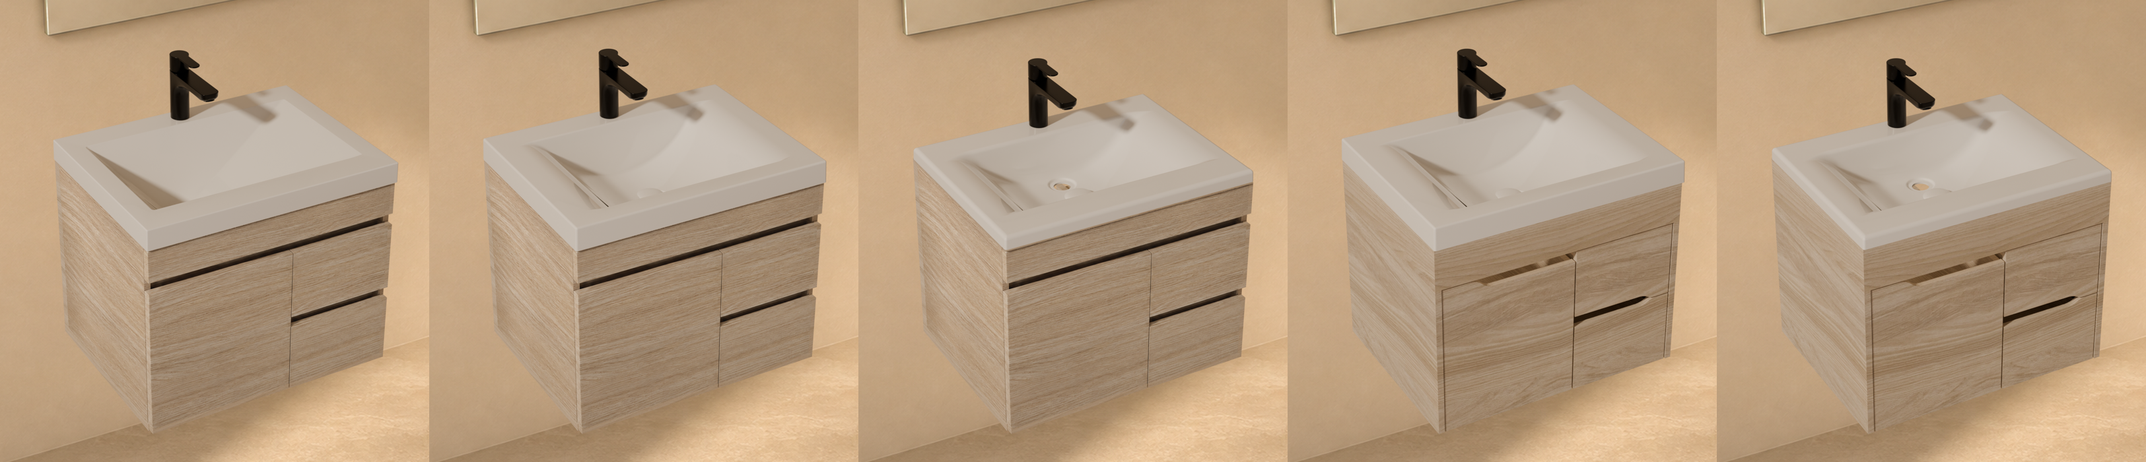
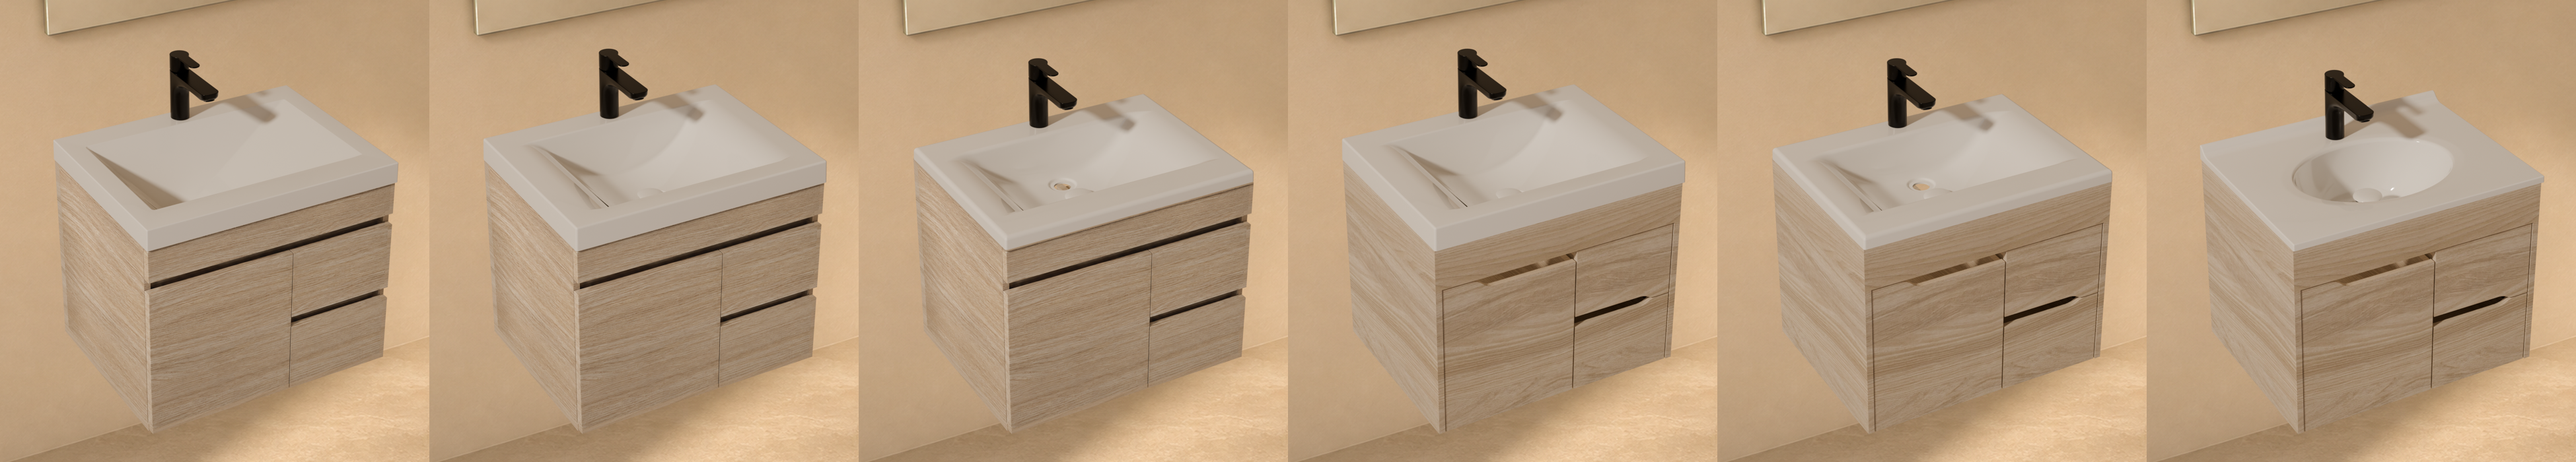
feat(banos-muebles): incorporar lavamanos Quadratto en mueble Tiziano (Opcion D)

diff --git a/pruebas-unitarias/opcionD.test.ts b/pruebas-unitarias/opcionD.test.ts
@@ -8,13 +8,13 @@ import { leerSeleccionD, escribirSeleccionD, normalizarD, nombresD, sorprenderD,
 const publico = (url: string) => path.join(process.cwd(), 'public', url);
 
 describe('Alejandro · ambiente persistente y productos intercambiables', () => {
-  it('limita el piloto a las nueve parejas verificadas de 63 × 48', () => {
+  it('limita el piloto a las diez parejas verificadas de 63 × 48', () => {
     expect(MUEBLES_D.map(m => m.id)).toEqual(['vitelli', 'tiziano']);
-    expect(LAVAMANOS_D.map(l => l.id)).toEqual(['oslo', 'genova', 'bari', 'siena', 'trentino']);
-    expect(TOTAL_COMBINACIONES_D).toBe(9);
-    expect(CAPAS_PILOTO_D.verified_combinations).toHaveLength(9);
+    expect(LAVAMANOS_D.map(l => l.id)).toEqual(['oslo', 'genova', 'bari', 'siena', 'trentino', 'quadratto']);
+    expect(TOTAL_COMBINACIONES_D).toBe(10);
+    expect(CAPAS_PILOTO_D.verified_combinations).toHaveLength(10);
     expect(lavamanosDe('vitelli').map(l => l.id)).toEqual(['oslo', 'genova', 'bari', 'siena', 'trentino']);
-    expect(lavamanosDe('tiziano').map(l => l.id)).toEqual(['oslo', 'genova', 'siena', 'trentino']);
+    expect(lavamanosDe('tiziano').map(l => l.id)).toEqual(['oslo', 'genova', 'siena', 'trentino', 'quadratto']);
     for (const m of MUEBLES_D) {
       expect(acabadosDe(m.id).map(a => a.id)).toEqual(['soder']);
       expect(capaMuebleD(m.id, 'soder', 'abierto')).toBeNull();
@@ -23,11 +23,14 @@ describe('Alejandro · ambiente persistente y productos intercambiables', () => 
   });
 
   it('no interpreta la igualdad de medida como compatibilidad física', () => {
-    expect(combinacionVerificadaD('tiziano', 'quadratto', 'soder')).toBe(false);
+    // Tiziano + Quadratto lo aprobó el usuario; Vitelli + Quadratto y Tiziano + Bari no se ofrecen.
+    expect(combinacionVerificadaD('tiziano', 'quadratto', 'soder')).toBe(true);
+    expect(capasSeleccionD({ mueble: 'tiziano', lavamanos: 'quadratto', acabado: 'soder' })).not.toBeNull();
+    expect(combinacionVerificadaD('vitelli', 'quadratto', 'soder')).toBe(false);
     expect(combinacionVerificadaD('tiziano', 'bari', 'soder')).toBe(false);
-    expect(capasSeleccionD({ mueble: 'tiziano', lavamanos: 'quadratto', acabado: 'soder' })).toBeNull();
+    expect(capasSeleccionD({ mueble: 'vitelli', lavamanos: 'quadratto', acabado: 'soder' })).toBeNull();
     expect(capasSeleccionD({ mueble: 'tiziano', lavamanos: 'bari', acabado: 'soder' })).toBeNull();
-    for (const lavamanos of ['parma', 'quadratto', 'quadratto-marfil', 'oasis', 'doha'])
+    for (const lavamanos of ['parma', 'quadratto-marfil', 'oasis', 'doha'])
       for (const mueble of ['vitelli', 'tiziano']) expect(combinacionVerificadaD(mueble, lavamanos, 'soder')).toBe(false);
     expect(combinacionVerificadaD('vitelli', 'parma', 'soder')).toBe(false);
     expect(combinacionVerificadaD('greco', 'oslo', 'soder')).toBe(false);
@@ -48,7 +51,7 @@ describe('Alejandro · ambiente persistente y productos intercambiables', () => 
       expect(capaMuebleD(combo.mueble, combo.acabado, 'cerrado')?.src).toBe(capas.mueble);
       expect(capaLavamanosD(combo.lavamanos).src).toBe(capas.lavamanos);
     }
-    expect(srcs.size).toBe(10); // Un fondo, cinco lavamanos, dos muebles y dos sombras.
+    expect(srcs.size).toBe(11); // Un fondo, seis lavamanos, dos muebles y dos sombras.
   });
 
   it('cada cruce publicado declara su fuente de compatibilidad', () => {
@@ -56,7 +59,8 @@ describe('Alejandro · ambiente persistente y productos intercambiables', () => 
       const original = ['oslo', 'genova'].includes(c.lavamanos);
       expect(c.fuente).toBe(original
         ? 'Matriz de compatibilidad BAÑOS 2025, páginas 1 y 3'
-        : `firplak.com, LAVAMANOS ${c.lavamanos.toUpperCase()} + MUEBLE ${c.mueble.toUpperCase()} 63X48, consultado 2026-11-23`);
+        : `firplak.com, LAVAMANOS ${c.lavamanos.toUpperCase()} + MUEBLE ${c.mueble.toUpperCase()} 63X48, consultado ${
+          c.lavamanos === 'quadratto' ? '2026-11-24' : '2026-11-23'}`);
     }
   });
 
@@ -104,7 +108,9 @@ describe('Alejandro · ambiente persistente y productos intercambiables', () => 
     expect(normalizarD({ mueble: 'tiziano', acabado: 'soder', lavamanos: 'bari' }))
       .toEqual({ mueble: 'tiziano', acabado: 'soder', lavamanos: 'oslo' });
     expect(normalizarD({ mueble: 'tiziano', acabado: 'soder', lavamanos: 'quadratto' }))
-      .toEqual({ mueble: 'tiziano', acabado: 'soder', lavamanos: 'oslo' });
+      .toEqual({ mueble: 'tiziano', acabado: 'soder', lavamanos: 'quadratto' });
+    expect(normalizarD({ mueble: 'vitelli', acabado: 'soder', lavamanos: 'quadratto' }))
+      .toEqual({ mueble: 'vitelli', acabado: 'soder', lavamanos: 'oslo' });
     expect(normalizarD({ mueble: 'vitelli', acabado: 'soder', lavamanos: 'bari' }))
       .toEqual({ mueble: 'vitelli', acabado: 'soder', lavamanos: 'bari' });
     expect(normalizarD({ mueble: 'greco', acabado: 'soder', lavamanos: 'oslo' })).toEqual(INICIAL_D);

diff --git a/pruebas-e2e/opcionD.spec.ts b/pruebas-e2e/opcionD.spec.ts
@@ -30,22 +30,25 @@ test('Alejandro conserva ambiente y la otra pieza al recorrer las cuatro parejas
     expect(await page.locator('[data-seleccion]').evaluateAll(capas => capas.reduce((n, capa) => n + capa.getAnimations().length, 0))).toBe(0);
   }
   expect(pedidos).toEqual([]);
-  await page.goto(URL_ESTUDIO + '?mueble=tiziano&lavamanos=quadratto&acabado=mitte');
+  // Vitelli + Quadratto no se ofrece: cae a Oslo.
+  await page.goto(URL_ESTUDIO + '?mueble=vitelli&lavamanos=quadratto&acabado=mitte');
   await expect(page).toHaveURL(/lavamanos=oslo.*acabado=soder/);
-  await page.getByRole('button', { name: 'Lavamanos Oslo', exact: true }).click();
-  // Tiziano: Oslo, Génova, Siena y Trentino; Bari y Quadratto no se ofrecen.
-  await expect(page.getByRole('radiogroup', { name: 'Galería de lavamanos' }).getByRole('radio')).toHaveCount(4);
+  await page.goto(URL_ESTUDIO + '?mueble=tiziano&lavamanos=quadratto&acabado=mitte');
+  await expect(page).toHaveURL(/lavamanos=quadratto.*acabado=soder/);
+  await page.getByRole('button', { name: 'Lavamanos Quadratto', exact: true }).click();
+  // Tiziano: Oslo, Génova, Siena, Trentino y Quadratto; Bari no se ofrece.
+  await expect(page.getByRole('radiogroup', { name: 'Galería de lavamanos' }).getByRole('radio')).toHaveCount(5);
   await page.goto(URL_ESTUDIO + '?mueble=tiziano&lavamanos=bari&acabado=soder');
   await expect(page).toHaveURL(/lavamanos=oslo/);
 });
 
-test('recorre los nueve cruces publicados sin cambiar ambiente ni mueble', async ({ page }) => {
+test('recorre los diez cruces publicados sin cambiar ambiente ni mueble', async ({ page }) => {
   await page.emulateMedia({ reducedMotion: 'reduce' });
   const manifest = await (await page.request.get('http://localhost:3000/images/muebles/capas-63x48/manifest.json')).json();
   const visitados: string[] = [];
   for (const [mueble, lavamanos] of [
     ['vitelli', ['oslo', 'genova', 'bari', 'siena', 'trentino']],
-    ['tiziano', ['oslo', 'genova', 'siena', 'trentino']],
+    ['tiziano', ['oslo', 'genova', 'siena', 'trentino', 'quadratto']],
   ] as const) {
     await page.goto(`${URL_ESTUDIO}?mueble=${mueble}&lavamanos=oslo&acabado=soder`);
     await expect(page.getByText('Cargando tu combinación', { exact: true })).toHaveCount(0);

diff --git a/scripts/modelos-3d/render-lavamanos-stl-capas.py b/scripts/modelos-3d/render-lavamanos-stl-capas.py
@@ -49,6 +49,10 @@ exec(compile(tree, str(SOURCE), 'exec'), lib)
 # Ejes de exportación verificados en validacion.json de los STL.
 ARRIBA = {'siena': 'Z'}
 BORDE = 0.003  # m desde el borde lateral para medir el faldón
+# Ajuste de grifería medido en el STL: Quadratto tiene salpicadero trasero de 19,8 mm y su
+# perforación está a -76,5 mm del borde trasero (Oslo: -36 mm). bajo_tope baja el grifo del punto
+# más alto (tope del salpicadero) a la cubierta; dy lo adelanta hasta la perforación.
+GRIFO = {'quadratto': {'bajo_tope': 0.0198, 'dy': -0.0405}}
 
 
 def kind(o):
@@ -75,7 +79,8 @@ def anclas(pts):
     apoyo: borde inferior del faldón lateral, que descansa sobre la tapa del mueble (0,48 m).
     La profundidad del faldón cambia por modelo (Oslo 60 mm, Bari 50, Siena 54, Trentino 30,
     Génova 80), por eso no se alinea por la cara superior.
-    cubierta: punto más alto (estos lavamanos no tienen salpicadero); ahí se apoya el grifo.
+    cubierta: punto más alto. En los modelos sin salpicadero es la cubierta donde se apoya el grifo;
+    en los que tienen salpicadero (Quadratto) es el tope de este, y GRIFO corrige altura y avance.
     """
     mn, mx = pts.min(0), pts.max(0)
     cx = (mn[0] + mx[0]) / 2
@@ -158,15 +163,17 @@ for lid in ids:
         o.data.materials.append(esmalte)
     bpy.context.view_layer.update()
     a2 = anclas(vertices(stl))
-    dz = a2['cubierta'] - ref['cubierta']  # la grifería se apoya en la cubierta trasera
+    ajuste = GRIFO.get(lid, {})
+    dz = a2['cubierta'] - ajuste.get('bajo_tope', 0) - ref['cubierta']  # el grifo se apoya en la cubierta
     for o in grifo:
-        o.location = base_grifo[o.name] + Vector((0, 0, dz))
+        o.location = base_grifo[o.name] + Vector((0, ajuste.get('dy', 0), dz))
     nombre = f'calibracion-{lid}-stl.png' if lid == 'oslo' else f'lavamanos-{lid}-negro.png'
     destino = OUT / (f'prueba-{lid}-stl.png' if prueba else nombre)
     s.render.filepath = str(destino)
     bpy.ops.render.render(write_still=True)
     datos = {'archivo': f'{lid}-63x48.stl', 'dims_mm': a['dims_mm'],
              'traslacion_m': [round(float(d), 5) for d in delta], 'grifo_dz_mm': round(dz * 1000, 2),
+             'grifo_dy_mm': round(ajuste.get('dy', 0) * 1000, 2),
              'capa': destino.name}
     informe['lavamanos'][lid] = datos
     print('CAPA', lid, json.dumps(datos), flush=True)
@@ -176,7 +183,7 @@ for lid in ids:
 if not prueba:
     informe.update({'fuente': 'STL binario mm exportado de Autodesk Fusion (validacion.json)',
                     'geometry_modified': False, 'ai_generation': False, 'camera_changed': False,
-                    'griferia': 'Grifo negro del GLB Vitelli, trasladado solo en altura'})
+                    'griferia': 'Grifo negro del GLB Vitelli, trasladado en altura (y en Y donde GRIFO lo indica)'})
     previo = OUT / "fuente-lavamanos-stl.json"
     if previo.exists():
         informe["lavamanos"] = {**json.loads(previo.read_text(encoding="utf-8"))["lavamanos"], **informe["lavamanos"]}

diff --git a/scripts/mix-match/publicar-capas-lavamanos-nuevos.py b/scripts/mix-match/publicar-capas-lavamanos-nuevos.py
@@ -24,19 +24,20 @@ MANIFEST = PUBLIC / 'manifest.json'
 URL = '/images/muebles/capas-63x48/'
 
 FUENTE_MATRIZ = 'Matriz de compatibilidad BAÑOS 2025, páginas 1 y 3'
-NUEVOS = ['bari', 'siena', 'trentino']
-# Solo cruces publicados en firplak.com 63x48. Tiziano+Quadratto queda pendiente de
-# decisión (VIBEWORKFLOW lo marcó como no ofrecible); Tiziano+Bari no existe en la web.
+NUEVOS = ['bari', 'siena', 'trentino', 'quadratto']
+# Solo cruces publicados en firplak.com 63x48. Tiziano+Quadratto lo aprobó el usuario el
+# 2026-11-24 (VIBEWORKFLOW lo marcaba no ofrecible); Vitelli+Quadratto y Tiziano+Bari no se ofrecen.
 CRUCES = [('vitelli', 'bari'), ('vitelli', 'siena'), ('vitelli', 'trentino'),
-          ('tiziano', 'siena'), ('tiziano', 'trentino')]
-PROHIBIDOS = {('tiziano', 'quadratto'), ('tiziano', 'bari')}
+          ('tiziano', 'siena'), ('tiziano', 'trentino'), ('tiziano', 'quadratto')]
+PROHIBIDOS = {('vitelli', 'quadratto'), ('tiziano', 'bari')}
+CONSULTA = {('tiziano', 'quadratto'): '2026-11-24'}
 NOMBRES = {'vitelli': 'VITELLI', 'tiziano': 'TIZIANO', 'bari': 'BARI', 'siena': 'SIENA',
-           'trentino': 'TRENTINO'}
+           'trentino': 'TRENTINO', 'quadratto': 'QUADRATTO'}
 
 
 def fuente_web(mueble, lavamanos):
     return (f'firplak.com, LAVAMANOS {NOMBRES[lavamanos]} + MUEBLE {NOMBRES[mueble]} 63X48, '
-            'consultado 2026-11-23')
+            f'consultado {CONSULTA.get((mueble, lavamanos), "2026-11-23")}')
 
 
 def publish(image, name):
@@ -76,11 +77,11 @@ for mueble, lavamanos in CRUCES:
     if (mueble, lavamanos) not in existentes:
         manifest['verified_combinations'].append({'mueble': mueble, 'lavamanos': lavamanos, 'acabado': 'soder',
                                                   'estado': 'cerrado', 'fuente': fuente_web(mueble, lavamanos)})
-manifest['compatibility_source'] = FUENTE_MATRIZ + '; Bari, Siena y Trentino: firplak.com (ver fuente por cruce)'
+manifest['compatibility_source'] = FUENTE_MATRIZ + '; Bari, Siena, Trentino y Quadratto: firplak.com (ver fuente por cruce)'
 
 pares = {(c['mueble'], c['lavamanos']) for c in manifest['verified_combinations']}
 assert not pares & PROHIBIDOS, pares & PROHIBIDOS
-assert len(pares) == 9, sorted(pares)
+assert len(pares) == 10, sorted(pares)
 assert antes == json.dumps({k: manifest[k] for k in ['environment', 'cabinets', 'product_frame', 'shadow_frame']},
                            sort_keys=True)
 for basin, valor in basins_antes.items():

diff --git a/scripts/modelos-3d/validar-capas-lavamanos-stl.py b/scripts/modelos-3d/validar-capas-lavamanos-stl.py
@@ -15,8 +15,9 @@ from PIL import Image
 
 PILOTO = Path(sys.argv[1]) / 'assets-fuente/generativo-63x48/piloto-capas'
 CAPAS = Path(sys.argv[2])
-NUEVOS = ['bari', 'siena', 'trentino']
-CRUCES = [('vitelli', 'bari'), ('vitelli', 'siena'), ('vitelli', 'trentino'), ('tiziano', 'siena'), ('tiziano', 'trentino')]
+NUEVOS = ['bari', 'siena', 'trentino', 'quadratto']
+CRUCES = [('vitelli', 'bari'), ('vitelli', 'siena'), ('vitelli', 'trentino'), ('tiziano', 'siena'), ('tiziano', 'trentino'),
+          ('tiziano', 'quadratto')]  # Vitelli+Quadratto no se ofrece
 
 
 def rgba(ruta):

diff --git a/skills/bugs-knowhow/history.md b/skills/bugs-knowhow/history.md
@@ -33,3 +33,4 @@ This file tracks all bugs fixed in the project to prevent regressions.
 | 027 | 2026-11-20 | Aparecía una banda rectangular sobre pared y espejo al montar las capas | La sombra del mueble incluía oclusión ambiental que llegaba al borde de un render de producto recortado a 1600x1600 | Sombras en el lienzo completo del ambiente 1800x1200 y sustracción de la sombra sin producto; producto y sombra tienen marcos explícitos diferentes | Renderizar sombras en el marco completo de ambiente; inspeccionar espejo, pared y bordes en escritorio y móvil, además de revisar la silueta del producto |
 | 028 | 2026-11-20 | El cambio de piezas solo hacía un fundido y no conservaba un sentido lateral al recorrer dos opciones | El escenario animaba únicamente opacity y la selección no transportaba la intención anterior/siguiente | Dirección y selección atómicas; salida y entrada opuestas con resorte independiente por fila, retomando posición y velocidad al invertir; sombra fija sobre el ambiente | Probar dos avances consecutivos con vuelta circular, retroceso, inversión a mitad del recorrido, gesto móvil y movimiento reducido; no trasladar la placa ambiental de sombra |
 | 029 | 2026-11-23 | Opción D (Bari/Siena/Trentino): la verificación de capa servida fallaba aunque la imagen era idéntica, y una prueba e2e reportaba que el mueble cambiaba de nodo | WebP sin pérdida descarta el RGB bajo alfa 0; y el estudio arranca en `INICIAL_D` y lee la URL en un `requestAnimationFrame`, así que el nodo tomado antes de hidratar se reemplaza | `publicar-capas-lavamanos-nuevos.py` compara alfa completo y color solo donde alfa > 0, y publica de forma aditiva (sin recodificar ambiente, muebles ni sombras aprobados); la prueba espera la pieza de la URL antes de tomar nodos | Al comparar capas RGBA publicadas, comparar píxeles visibles; ampliar el manifiesto sin re-ejecutar el publicador completo si cambiaría huellas aprobadas; en e2e, esperar `data-pieza` de la URL antes de capturar referencias |
+| 030 | 2026-11-24 | Opción D (Tiziano + Quadratto): la prueba de render en Blender terminó sin error pero el PNG no apareció en la carpeta de capas | `--salida` relativa se asignó a `scene.render.filepath`; Blender resuelve esa ruta por su cuenta, no contra el directorio de la terminal | Se relanzó con `--piloto`, `--modelos` y `--salida` absolutas y se confirmó la línea `Saved:` del log | Pasar siempre rutas absolutas a scripts de Blender en modo `-b` y verificar `Saved: <ruta>` antes de revisar o publicar la capa |

diff --git a/especificaciones/wiki/log.md b/especificaciones/wiki/log.md
@@ -6,6 +6,11 @@
 
 Registro de auditorías, ingestas y consultas realizadas en el wiki de especificaciones.
 
+## [2026-11-24] feat | Opción D: incorporación de combinación Tiziano + Quadratto 63x48
+- **Compatibilidad aprobada:** Incorporación del lavamanos Quadratto verificado con mueble Tiziano 63x48 (`CAPAS_PILOTO_D`), ampliando a 10 las parejas verificadas de la matriz de la visualización Alejandro.
+- **Render y Capas:** Generación y publicación aditiva de la capa webp de Quadratto con grifería negra integrada (`lavamanos-quadratto.6df30071cf00.webp`) y validación morfológica sin recodificar capas previas.
+- **Pruebas:** Actualización de pruebas unitarias y e2e (`opcionD.test.ts`, `opcionD.spec.ts`), con 67 tests pasando al 100%.
+
 ## [2026-11-23] feat | Sesión Lavamanos & Muebles · Opción D: Estudio Mix & Match (propuesta Alejandro)
 - **Ruta:** `/categoria-producto/banos/combos-lavamanos-con-mueble/mix-match` (y redirección desde `?opcion=d`).
 - **Diseño & UI:** Estética integrada con el home de Alejandro (Loomere) en vidrio pizarra, degradado de malla oficial (Navy #324354 / Sage #7B8E90 / Crema #F6F3EE), carruseles de selección lateral con resorte físico y selector flotante de prototipos.
